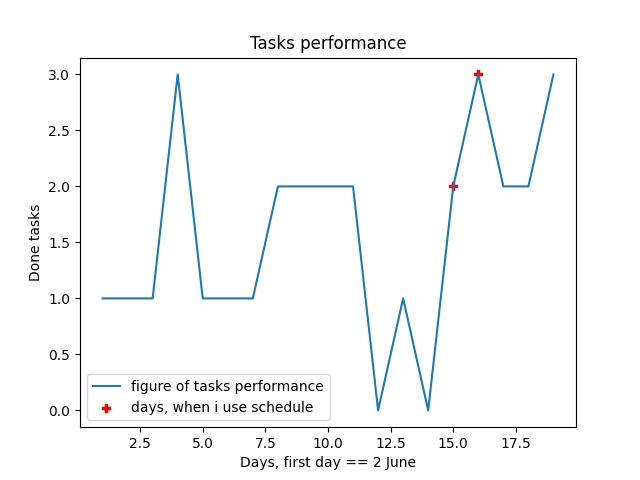
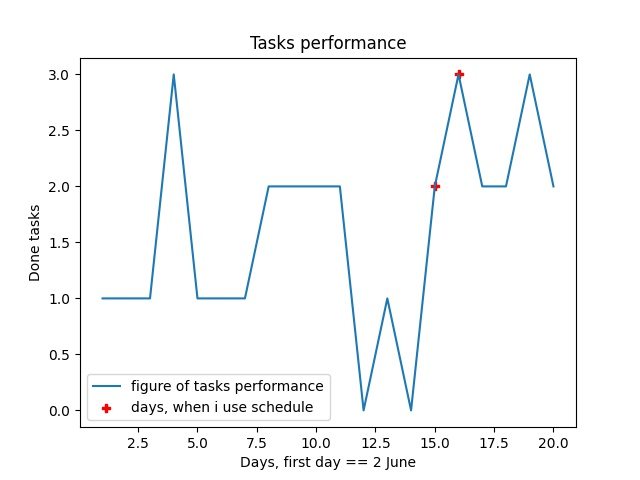
Automated sync by sync shell script

diff --git a/Statistic.py b/Statistic.py
@@ -4,7 +4,7 @@ import numpy as np
 
 def main():
     fig, ax = plt.subplots()  # ax - axes or array of axes
-    y = np.array([1, 1, 1, 3, 1, 1, 1, 2, 2, 2, 2, 0, 1, 0, 2, 3, 2, 2, 3])
+    y = np.array([1, 1, 1, 3, 1, 1, 1, 2, 2, 2, 2, 0, 1, 0, 2, 3, 2, 2, 3, 2])
     x = np.array(range(1, len(y) + 1))
     schedule_y = np.array([2, 3])
     schedule_x = np.array([15, 16])
